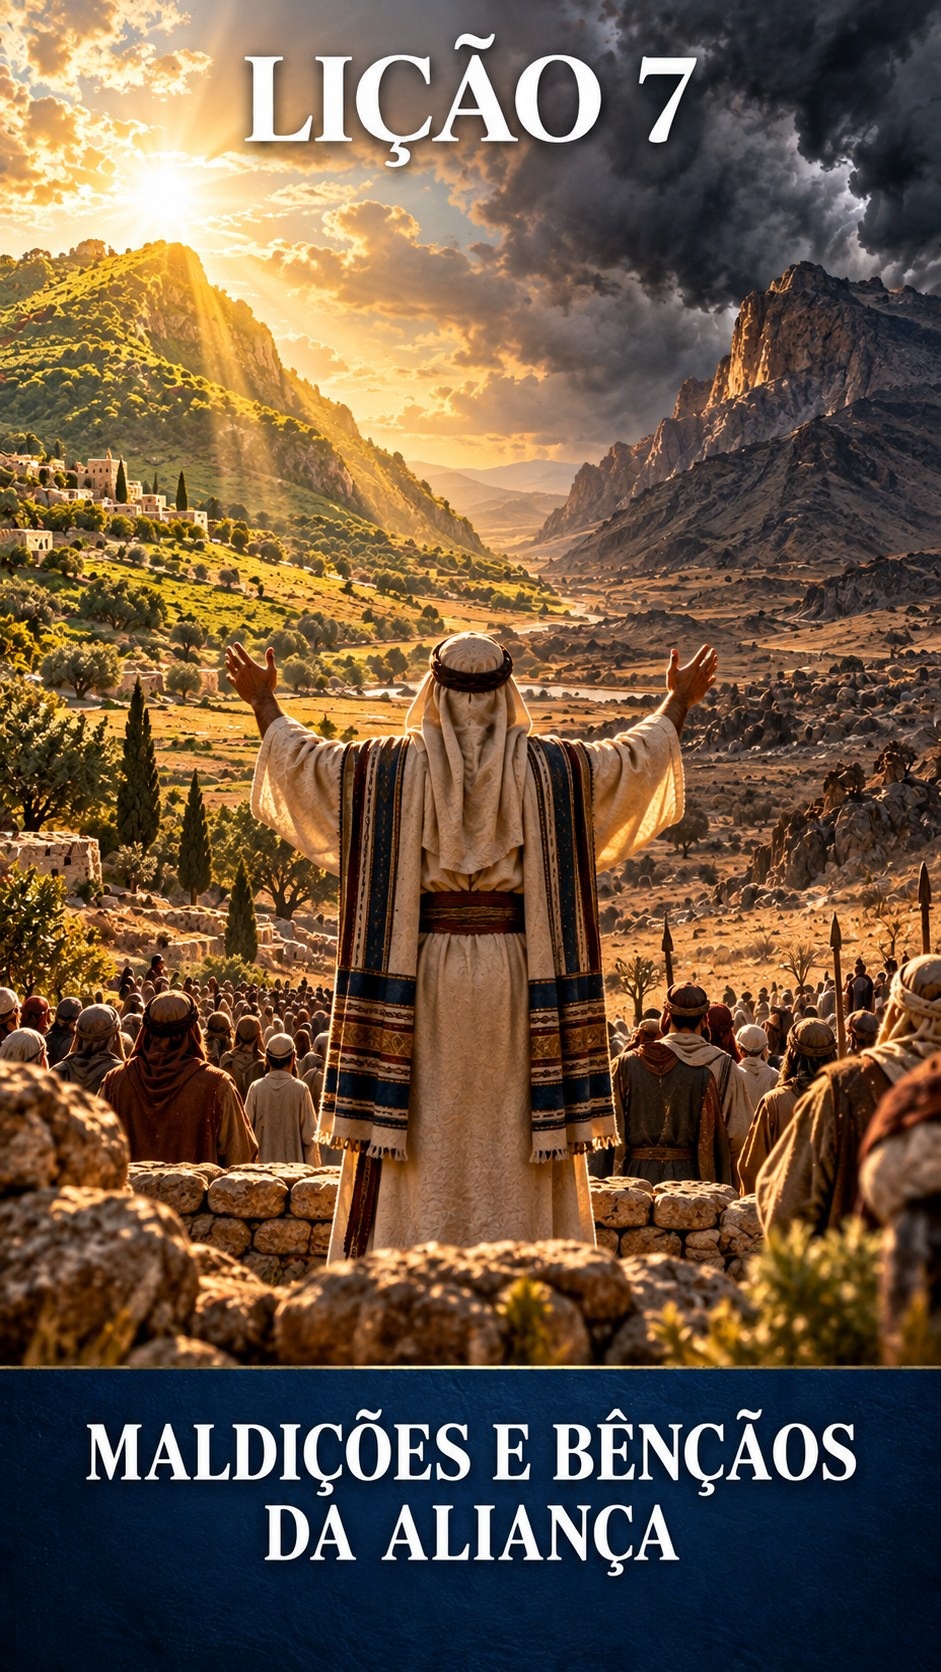
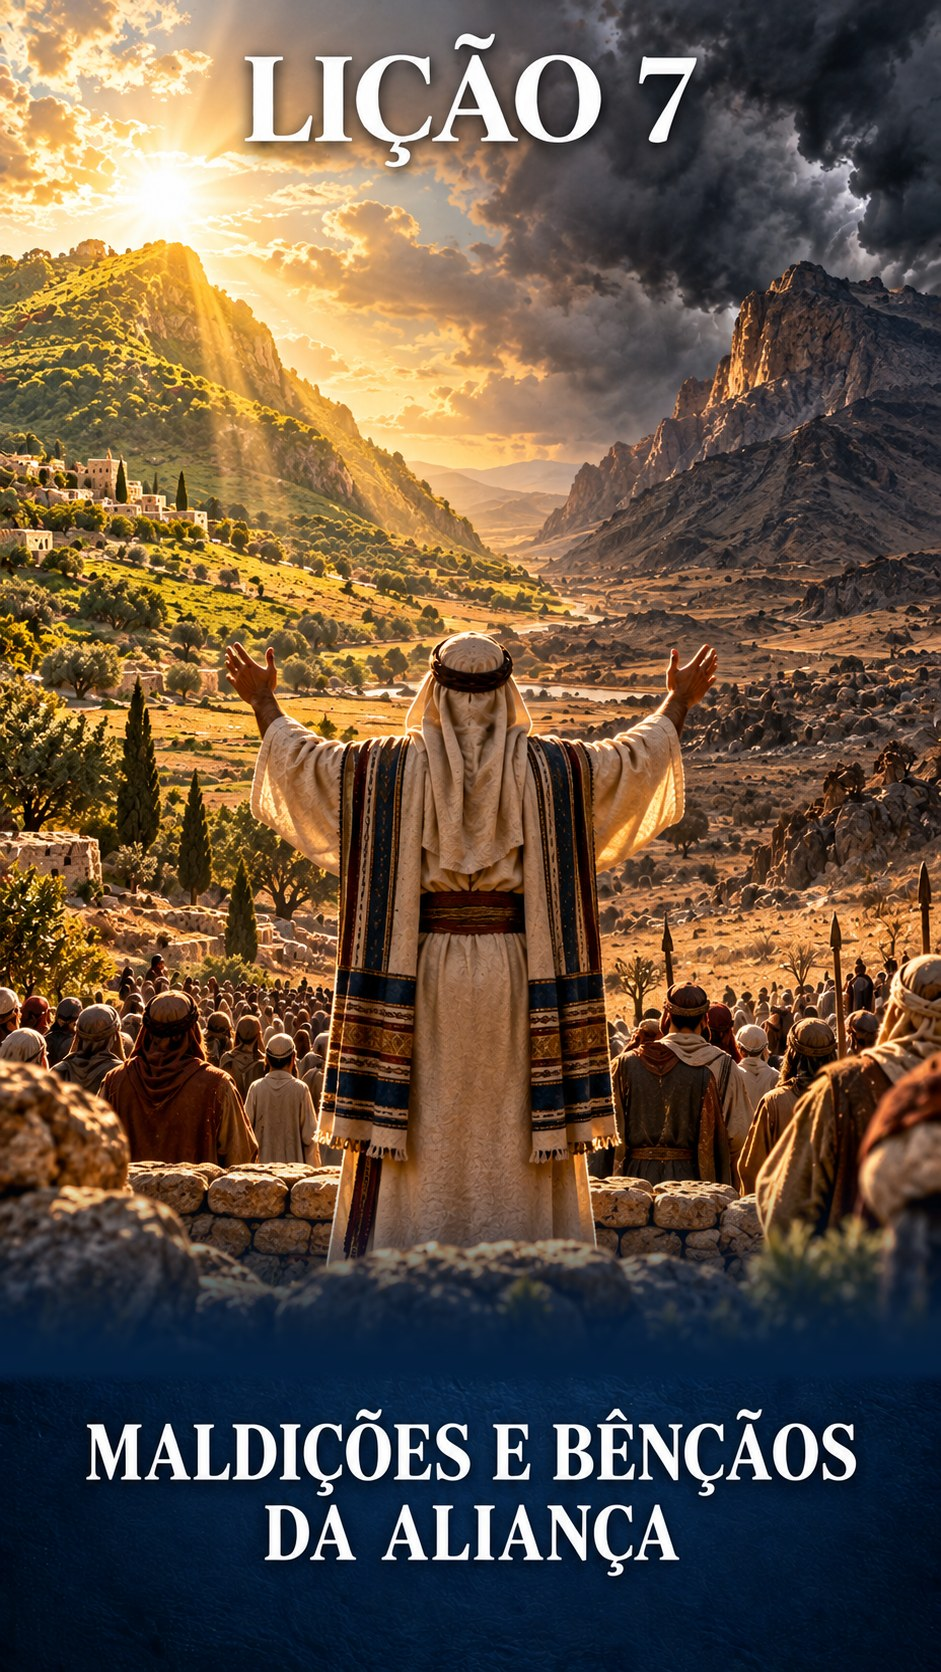
EBD 4T: degradê suave entre a arte e a faixa do título nas 13 capas; SW v235

Changed region(s): [[0.0, 0.7153, 1.0, 0.8397]]

diff --git a/public/assets/app.js b/public/assets/app.js
@@ -2657,7 +2657,7 @@ function abrirEbdTurma(turma){
         return `<div class="ebd-item ppt-item" style="display:block;padding:0;overflow:hidden;margin-bottom:12px${lic.n>_at?';opacity:.9':''}" onclick="abrirLicaoDetalhe(${idx})">
           <div style="position:relative">
             ${ebdTurmaAtual==='adulto4'
-              ?`<img src="/ebd/adulto4/img/capa-licao-${nn}.jpg" loading="lazy" alt="" style="width:100%;aspect-ratio:16/10;object-fit:cover;object-position:50% 42%;display:block" onerror="this.style.display='none'">`
+              ?`<img src="/ebd/adulto4/img/capa-licao-${nn}.jpg?d=2" loading="lazy" alt="" style="width:100%;aspect-ratio:16/10;object-fit:cover;object-position:50% 42%;display:block" onerror="this.style.display='none'">`
               :`<img src="/ebd/${ebdTurmaAtual}/img/licao-${nn}.jpg" loading="lazy" style="width:100%;display:block" onerror="this.style.display='none'">`}
             ${badge}${_selo}
           </div>
@@ -2720,7 +2720,7 @@ function abrirLicaoDetalhe(idx){
   const n=String(lic.n>0?lic.n:0).padStart(2,'0');
   /* Adultos 4º tri (17/10/2026): capa nova (arte + LIÇÃO N + título), sem a foto da página da revista (letra miúda, ruim no celular) */
   const _licBanner=(lic.n>=1&&lic.n<=13)?(ebdTurmaAtual==='adulto4'
-    ?`<div id="ebd-capa-stage" style="position:fixed;top:0;left:0;right:0;bottom:0;width:100vw;height:100vh;height:100dvh;z-index:60;display:flex;flex-direction:column;background:${['#021b41','#011941','#0a1c30','#01173f','#04162d','#02162f','#02142b','#011228','#01133b','#01123a','#02152c','#01162f','#01162d'][lic.n-1]};transition:opacity .35s ease,transform .35s ease"><img src="/ebd/adulto4/img/capa-licao-${String(lic.n).padStart(2,'0')}.jpg" alt="Lição ${lic.n}" style="flex:1 1 auto;min-height:0;width:100%;height:calc(100% - 80px);object-fit:contain;object-position:50% 0;display:block" onerror="ebdEntrarLicao(true)"><button type="button" onclick="fecharLicaoDetalhe()" aria-label="Voltar" style="position:absolute;top:calc(10px + env(safe-area-inset-top));left:10px;width:46px;height:46px;border-radius:50%;border:2px solid #fff;background:rgba(0,0,0,.62);color:#fff;font-size:28px;line-height:1;padding:0 0 4px;cursor:pointer;box-shadow:0 3px 10px rgba(0,0,0,.5)">‹</button><button type="button" onclick="ebdEntrarLicao()" style="position:absolute;left:14px;right:14px;bottom:calc(12px + env(safe-area-inset-bottom));height:54px;border:3px solid #fff;border-radius:16px;font-size:19px;font-weight:900;letter-spacing:.5px;cursor:pointer;background:#FFD400;color:#0b1220;box-shadow:0 0 0 2px rgba(0,0,0,.6),0 8px 24px rgba(0,0,0,.65)">👆 Clique aqui</button></div>`
+    ?`<div id="ebd-capa-stage" style="position:fixed;top:0;left:0;right:0;bottom:0;width:100vw;height:100vh;height:100dvh;z-index:60;display:flex;flex-direction:column;background:${['#021b41','#011941','#0a1c30','#01173f','#04162d','#02162f','#02142b','#011228','#01133b','#01123a','#02152c','#01162f','#01162d'][lic.n-1]};transition:opacity .35s ease,transform .35s ease"><img src="/ebd/adulto4/img/capa-licao-${String(lic.n).padStart(2,'0')}.jpg?d=2" alt="Lição ${lic.n}" style="flex:1 1 auto;min-height:0;width:100%;height:calc(100% - 80px);object-fit:contain;object-position:50% 0;display:block" onerror="ebdEntrarLicao(true)"><button type="button" onclick="fecharLicaoDetalhe()" aria-label="Voltar" style="position:absolute;top:calc(10px + env(safe-area-inset-top));left:10px;width:46px;height:46px;border-radius:50%;border:2px solid #fff;background:rgba(0,0,0,.62);color:#fff;font-size:28px;line-height:1;padding:0 0 4px;cursor:pointer;box-shadow:0 3px 10px rgba(0,0,0,.5)">‹</button><button type="button" onclick="ebdEntrarLicao()" style="position:absolute;left:14px;right:14px;bottom:calc(12px + env(safe-area-inset-bottom));height:54px;border:3px solid #fff;border-radius:16px;font-size:19px;font-weight:900;letter-spacing:.5px;cursor:pointer;background:#FFD400;color:#0b1220;box-shadow:0 0 0 2px rgba(0,0,0,.6),0 8px 24px rgba(0,0,0,.65)">👆 Clique aqui</button></div>`
     :`<img src="/ebd/${ebdTurmaAtual}/img/licao-${String(lic.n).padStart(2,'0')}.jpg" style="width:100%;border-radius:14px;margin-bottom:14px;box-shadow:0 8px 22px rgba(0,0,0,.28);display:block" onerror="this.style.display='none'">`):'';
   const itens=[
     {num:'1',icon:'📝',nome:'LIÇÃO',

diff --git a/public/index.html b/public/index.html
@@ -13,7 +13,7 @@
 <link rel="preconnect" href="https://fonts.googleapis.com"><link rel="preconnect" href="https://fonts.gstatic.com" crossorigin>
 <link href="https://fonts.googleapis.com/css2?family=Lora:ital,wght@0,400;0,500;0,600;1,400&family=Playfair+Display:wght@600;700;800&display=swap" rel="stylesheet">
 <link rel="stylesheet" href="/assets/radar.css?v=208">
-<link rel="preload" as="script" href="/assets/app.js?v=234">
+<link rel="preload" as="script" href="/assets/app.js?v=235">
 <script>
 /* ── A PELE DA HOME (bege ou azul) ──────────────────────────────────────────
    Isto roda AQUI NO <head>, antes de o navegador pintar qualquer coisa.
@@ -1008,7 +1008,7 @@
   </div>
 </div>
 
-<script src="/assets/app.js?v=234"></script>
+<script src="/assets/app.js?v=235"></script>
 
 <!-- REF SHEET -->
 <div id="ref-overlay" onclick="fecharRefSheet()" style="display:none;position:fixed;inset:0;z-index:900;background:rgba(0,0,0,.45)"></div>
@@ -2007,6 +2007,6 @@ function compartilharApp(nome){
 </div>
 
 <script src="/assets/lupa.js?v=208"></script>
-<script src="/_uso.js?v=234" defer></script>
+<script src="/_uso.js?v=235" defer></script>
 </body>
 </html>

diff --git a/public/sw.js b/public/sw.js
@@ -1,4 +1,4 @@
-const V='radar-v234';               // cache do SHELL — troca a cada versão do app
+const V='radar-v235';               // cache do SHELL — troca a cada versão do app
 const PACOTE='radar-pacote-v1';     // pacote que o irmão baixou de propósito — NUNCA apagado ao subir versão
 // ⚠ 27/09/2026 — POR QUE ESTE CACHE EXISTE (bug real: "clico na mensagem e não abre"):
 // o `activate` apagava o cache da versão anterior a CADA subida de versão. Como as
